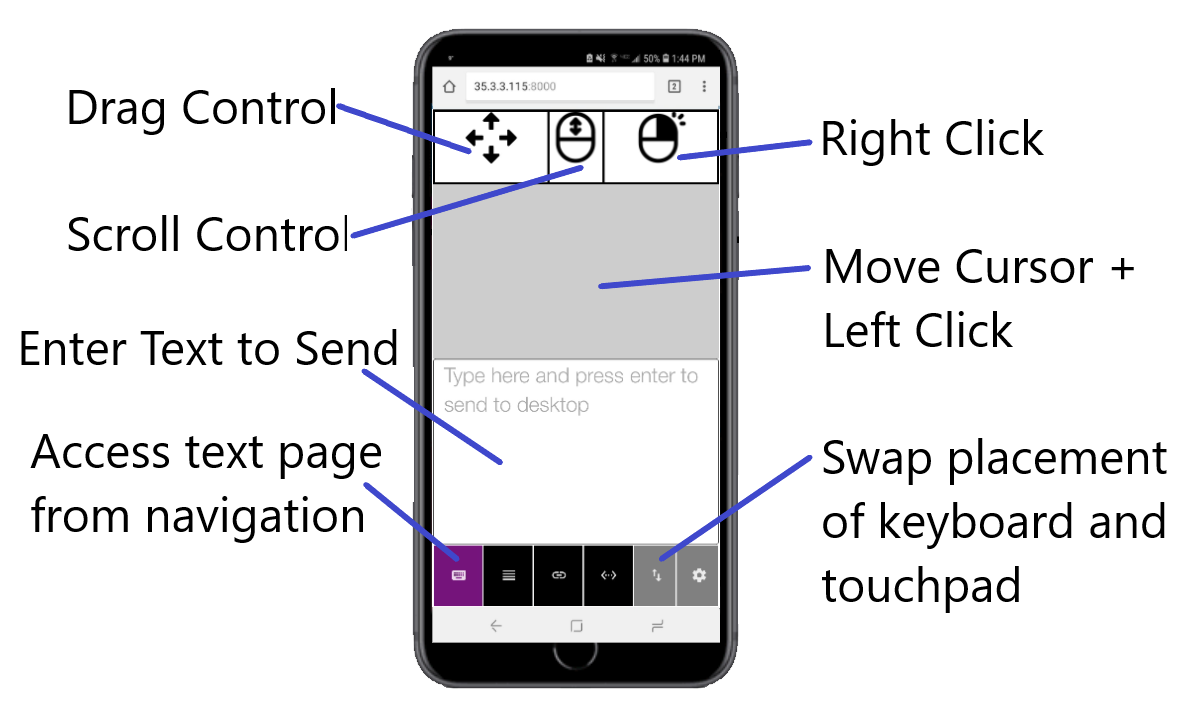
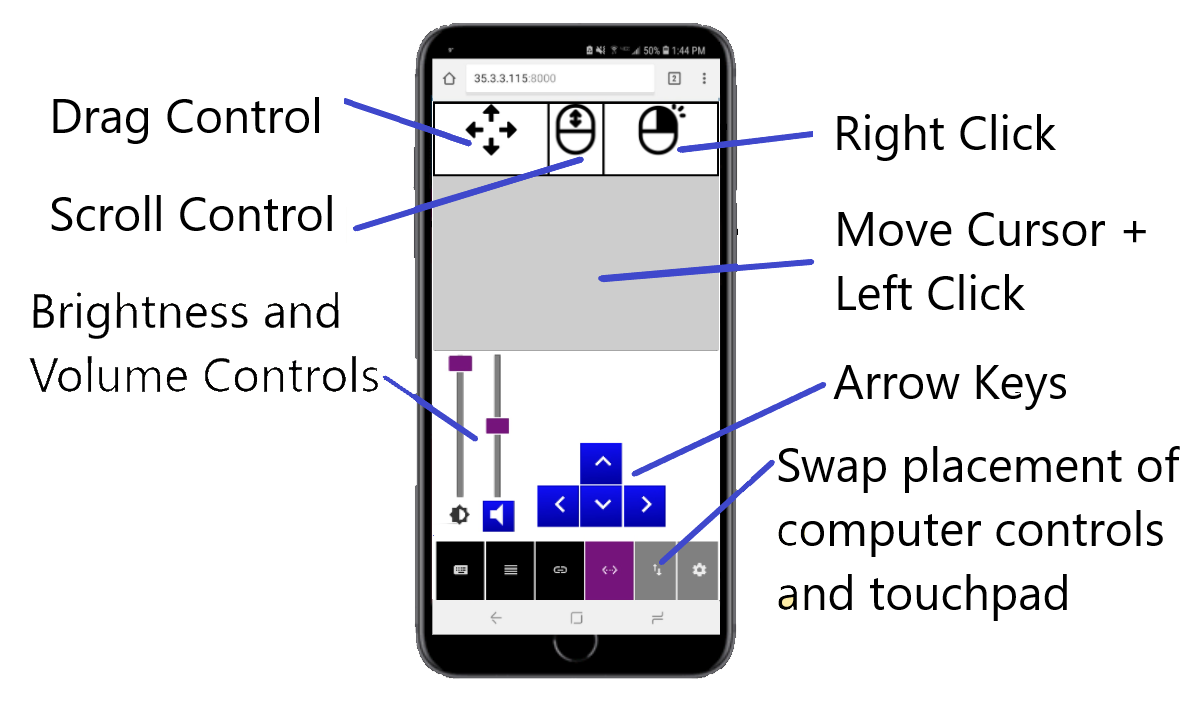
Make Computer Settings screen FAQ image

Changed region(s): [[0.0, 0.2812, 0.985, 1.0], [0.0308, 0.0312, 0.8927, 0.375], [0.6464, 0.8125, 0.8927, 0.875]]

diff --git a/public/faq/css/style.css b/public/faq/css/style.css
@@ -47,7 +47,7 @@ body.cd-overlay::after {
 }
 
 a {
-  color: #a9c056;
+  color: #3f48cc;
   text-decoration: none;
 }
 
